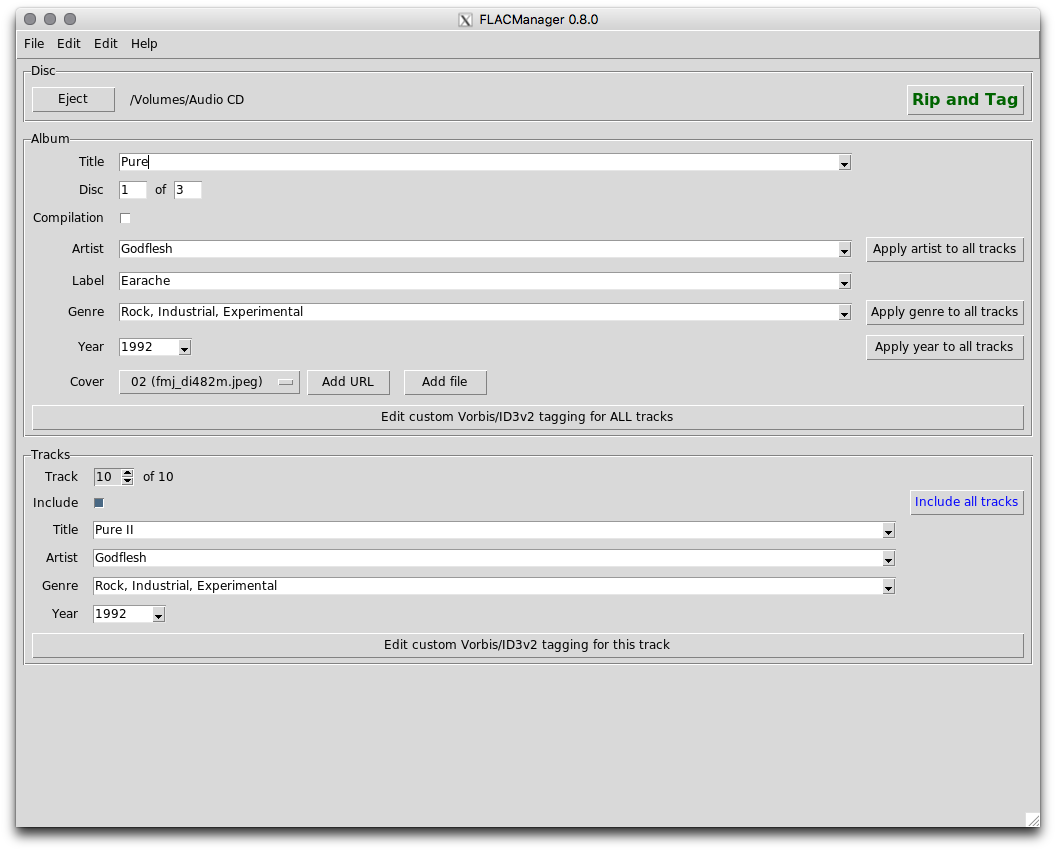
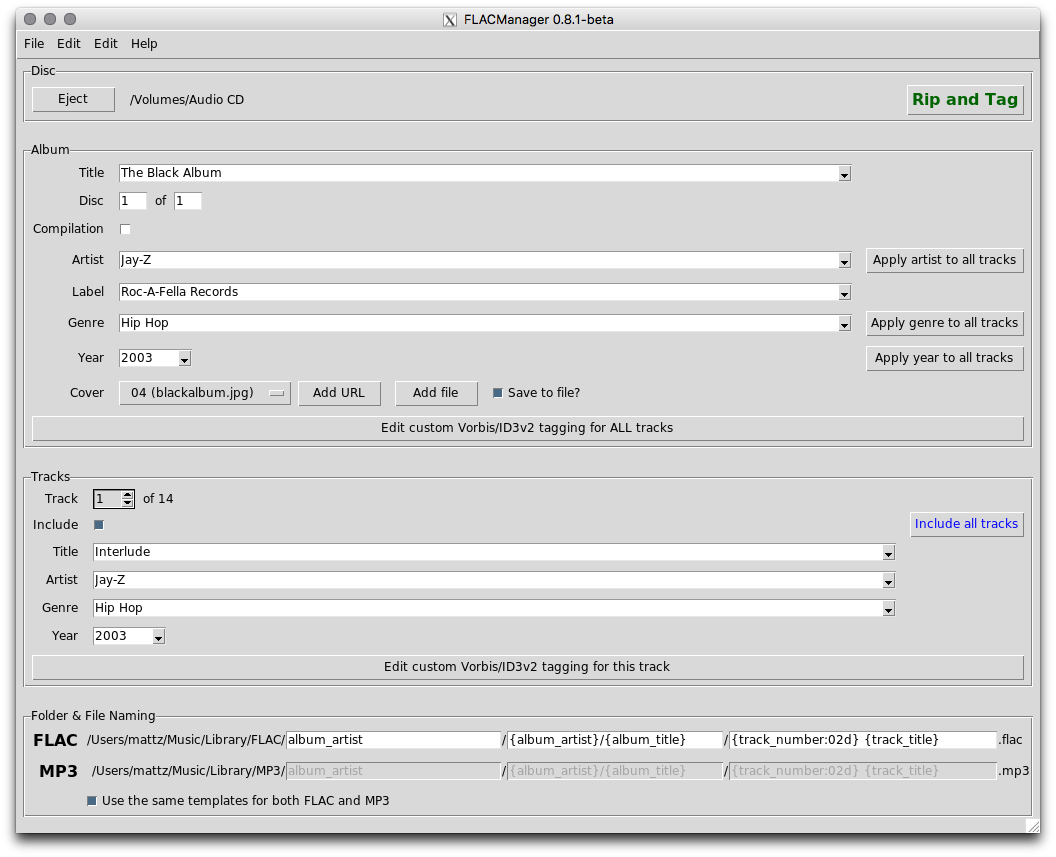
issues/5: folder and file names can now be controlled on a per-album basis; non-default string templates are stored with metadata

Changed region(s): [[0.0312, 0.0611, 0.9688, 0.7944], [0.0312, 0.8249, 1.0, 0.9471], [0.4062, 0.0, 0.5938, 0.0306]]

diff --git a/flacmanager.py b/flacmanager.py
@@ -1451,6 +1451,180 @@ class _FMEditorFrame(Frame):
         self.__init_album_editors()
         self.__init_track_editors()
 
+        # issues/5
+        self.__init_naming_editors()
+        self.__album_disctotal_observer_name = None
+
+    # issues/5
+    def __init_naming_editors(self):
+        """Create the entry widgets for album and track naming fields.
+
+        """
+        naming_editor_frame = LabelFrame(
+            self, name="naming_editor_frame", text="Folder & File Naming")
+
+        self.__row = 0  # relative to naming_editor_frame
+
+        self._create_naming_editor(naming_editor_frame, "FLAC")
+        self._create_naming_editor(naming_editor_frame, "MP3")
+
+        config = get_config()
+        mp3_naming_same_as_flac_var = BooleanVar(
+            name="mp3_naming_same_as_flac_var",
+            value=all((
+                config["FLAC"][option] == config["MP3"][option]
+                for option in [
+                    "album_folder",
+                    "ndisc_album_folder",
+                    "compilation_album_folder",
+                    "ndisc_compilation_album_folder",
+                    "library_subroot_trie_key",
+                    "library_subroot_compilation_trie_key",
+                    "track_filename",
+                    "ndisc_track_filename",
+                    "compilation_track_filename",
+                    "ndisc_compilation_track_filename",
+                    ]
+                )))
+        mp3_naming_same_as_flac_checkbutton = Checkbutton(
+            naming_editor_frame, name="mp3_naming_same_as_flac_checkbutton",
+            text="Use the same templates for both FLAC and MP3",
+            variable=mp3_naming_same_as_flac_var, onvalue=True, offvalue=False,
+            command=self.__update_mp3_naming_editor_state
+        )
+        mp3_naming_same_as_flac_checkbutton.grid(
+            row=self.__row, column=1, columnspan=5, padx=0, pady=_PADY,
+            sticky=W)
+        self.__mp3_naming_same_as_flac_var = mp3_naming_same_as_flac_var
+
+        # collapse the labels and allow the entry fields to expand
+        for i in range(8):
+            naming_editor_frame.grid_columnconfigure(i, weight=0)
+        naming_editor_frame.grid_columnconfigure(2, weight=1) # trie key
+        naming_editor_frame.grid_columnconfigure(4, weight=1) # album folder
+        naming_editor_frame.grid_columnconfigure(6, weight=2) # track filename
+
+        if mp3_naming_same_as_flac_var.get():
+            for editor_name in [
+                    "__mp3_subroot_trie",
+                    "__mp3_album_folder",
+                    "__mp3_track_filename",
+                    ]:
+                self.__metadata_editors[editor_name].config(state=DISABLED)
+
+        naming_editor_frame.pack(anchor=N, pady=11, fill=BOTH)
+
+    def _create_naming_editor(self, parent, encoding_section):
+        """Create entry widgets for the album folder and track filename
+        templates.
+
+        :arg parent: parent object of the widgets
+        :arg str encoding_section: either "FLAC" or "MP3"
+
+        """
+        trie_field = "%s_subroot_trie" % encoding_section.lower()
+        folder_field = "%s_album_folder" % encoding_section.lower()
+        track_field = "%s_track_filename" % encoding_section.lower()
+
+        config_section = get_config()[encoding_section]
+
+        _styled(
+            Label(parent, text=encoding_section), font="-weight bold"
+        ).grid(row=self.__row, column=0, padx=_PADX, pady=_PADY, sticky=E)
+
+        Label(
+            parent, text=config_section["library_root"] + '/'
+        ).grid(row=self.__row, column=1, padx=0, pady=_PADY, sticky=E)
+
+        subroot_trie_var = StringVar(name=trie_field + "_var")
+        subroot_trie = Entry(
+            parent, name=trie_field, textvariable=subroot_trie_var)
+        subroot_trie.var = subroot_trie_var
+        subroot_trie.grid(
+            row=self.__row, column=2, padx=0, pady=_PADY, sticky=W + E)
+
+        Label(parent, text='/').grid(
+            row=self.__row, column=3, padx=0, pady=_PADY, sticky=W)
+
+        album_folder_var = StringVar(name=folder_field + "_var")
+        album_folder = Entry(
+            parent, name=folder_field, textvariable=album_folder_var)
+        album_folder.var = album_folder_var
+        album_folder.grid(
+            row=self.__row, column=4, padx=0, pady=_PADY, sticky=W + E)
+
+        Label(parent, text='/').grid(
+            row=self.__row, column=5, padx=0, pady=_PADY, sticky=W)
+
+        track_filename_var = StringVar(name=track_field + "_var")
+        track_filename = Entry(
+            parent, name=track_field, textvariable=track_filename_var)
+        track_filename.var = track_filename_var
+        track_filename.grid(
+            row=self.__row, column=6, padx=0, pady=_PADY, sticky=W + E)
+
+        Label(parent, text=config_section["track_fileext"]).grid(
+            row=self.__row, column=7, padx=0, pady=_PADY, sticky=W)
+
+        self.__metadata_editors["__%s" % trie_field] = subroot_trie
+        self.__metadata_editors["__%s" % folder_field] = album_folder
+        self.__metadata_editors["__%s" % track_field] = track_filename
+
+        self.__row += 1
+
+    # issues/5
+    def _apply_naming_defaults(self, *args):
+        """Update the folder and file name templates based on the
+        current values for ``album_disctotal`` and
+        ``album_compilation``.
+
+        :arg tuple args:
+           positional arguments (empty except when this method is
+           invoked as the variable trace callback for
+           ``album_disctotal_var``)
+
+        """
+        metadata_editors = self.__metadata_editors
+
+        # yuck... but when changing the value, we get TWO traces:
+        # 1. the variable value changes from the old value to empty (""),
+        #    causing `metadata_editors["album_disctotal"].var.get()` to result
+        #    in TclError since album_disctotal_var is an IntVar
+        # 2. the variable value changes from empty ("") to the new value
+        try:
+            metadata_editors["album_disctotal"].var.get()
+        except TclError:
+            return
+
+        ndisc = (
+            "ndisc_" if metadata_editors["album_disctotal"].var.get() > 1
+            else "")
+        compilation = (
+            "compilation_" if metadata_editors["album_compilation"].var.get()
+            else "")
+        default_key_prefix = ndisc + compilation
+
+        config = get_config()
+        for encoding in ["FLAC", "MP3"]:
+            for field_suffix in [
+                    "subroot_trie", "album_folder", "track_filename"]:
+                default_key = (
+                    "library_subroot_%strie_key" % compilation
+                    if field_suffix == "subroot_trie"
+                    else default_key_prefix + field_suffix)
+                custom_key = "__%s_%s" % (encoding.lower(), field_suffix)
+                metadata_editors[custom_key].var.set(
+                    config[encoding][default_key])
+
+    # issues/5
+    def __update_mp3_naming_editor_state(self):
+        """Enable or disable the MP3 naming entry widgets."""
+        state = \
+            DISABLED if self.__mp3_naming_same_as_flac_var.get() else NORMAL
+        self.__metadata_editors["__mp3_subroot_trie"].config(state=state)
+        self.__metadata_editors["__mp3_album_folder"].config(state=state)
+        self.__metadata_editors["__mp3_track_filename"].config(state=state)
+
     def __init_album_editors(self):
         """Create the entry/selection widgets for album metadata fields.
 
@@ -1477,7 +1651,7 @@ class _FMEditorFrame(Frame):
         album_editor_frame.grid_columnconfigure(1, weight=1)
         album_editor_frame.grid_columnconfigure(2, weight=0)
 
-        album_editor_frame.pack(anchor=N, fill=BOTH)
+        album_editor_frame.pack(anchor=N, pady=11, fill=BOTH)
 
     def __init_track_editors(self):
         """Create the entry/selection widgets for track metadata fields.
@@ -1632,7 +1806,8 @@ class _FMEditorFrame(Frame):
         var = BooleanVar()
         album_compilation = Checkbutton(
             parent, name="album_compilation_checkbutton", variable=var,
-            onvalue=True, offvalue=False)
+            onvalue=True, offvalue=False,
+            command=self._apply_naming_defaults) # issues/5
         album_compilation.var = var
         album_compilation.grid(
             row=self.__row, column=1, columnspan=2, padx=_PADX, pady=_PADY,
@@ -2040,6 +2215,21 @@ class _FMEditorFrame(Frame):
                 self.__add_album_cover_option(filepath, showinfo=False)
             album_cover_editor.config(state=NORMAL)
 
+        # issues/5
+        self._apply_naming_defaults()
+        for encoding in ["flac", "mp3"]:
+            for field_suffix in [
+                    "subroot_trie", "album_folder", "track_filename"]:
+                custom_key = "__%s_%s" % (encoding, field_suffix)
+                custom_spec = aggregated_metadata.get(custom_key)
+                if custom_spec is not None:
+                    metadata_editors[custom_key].var.set(custom_spec)
+
+        # issues/5
+        self.__album_disctotal_observer_name = \
+            metadata_editors["album_disctotal"].var.trace(
+                'w', self._apply_naming_defaults)
+
         self.__aggregated_metadata = deepcopy(aggregated_metadata)
 
         self._initialize_track_vars()
@@ -2124,6 +2314,26 @@ class _FMEditorFrame(Frame):
         # expected
         aggregated_metadata = self.__aggregated_metadata
         snapshot["__custom"] = aggregated_metadata["__custom"].copy()
+
+        # issues/5
+        snapshot["__flac_subroot_trie"] = \
+            metadata_editors["__flac_subroot_trie"].var.get()
+        snapshot["__flac_album_folder"] = \
+            metadata_editors["__flac_album_folder"].var.get()
+        snapshot["__flac_track_filename"] = \
+            metadata_editors["__flac_track_filename"].var.get()
+        if self.__mp3_naming_same_as_flac_var.get():
+            snapshot["__mp3_subroot_trie"] = snapshot["__flac_subroot_trie"]
+            snapshot["__mp3_album_folder"] = snapshot["__flac_album_folder"]
+            snapshot["__mp3_track_filename"] = \
+                snapshot["__flac_track_filename"]
+        else:
+            snapshot["__mp3_subroot_trie"] = \
+                metadata_editors["__mp3_subroot_trie"].var.get()
+            snapshot["__mp3_album_folder"] = \
+                metadata_editors["__mp3_album_folder"].var.get()
+            snapshot["__mp3_track_filename"] = \
+                metadata_editors["__mp3_track_filename"].var.get()
 
         snapshot["__tracks"] = [None]
         for t in range(1, len(track_vars)):
@@ -2312,6 +2522,11 @@ class _FMEditorFrame(Frame):
                 textvariable=metadata_editors[track_field_name].var)
 
         metadata_editors["album_discnumber"].var.set(0)
+        # issues/5
+        if self.__album_disctotal_observer_name is not None:
+            metadata_editors["album_disctotal"].var.trace_vdelete(
+                'w', self.__album_disctotal_observer_name)
+            self.__album_disctotal_observer_name = None
         metadata_editors["album_disctotal"].var.set(0)
 
         metadata_editors["album_compilation"].var.set(False)
@@ -2345,6 +2560,10 @@ class _FMEditorFrame(Frame):
         track_include_editor.var.set(True)
         track_include_editor.apply_button.config(text="Include all tracks")
         _styled(track_include_editor.apply_button, foreground="Blue")
+
+        # issues/5
+        self._apply_naming_defaults()
+        self.__mp3_naming_same_as_flac_var.set(True)
 
         # finally clear all cached data
         self.__aggregated_metadata = None
@@ -2781,11 +3000,8 @@ def _generate_dirname(section, library_root, metadata):
 
     config = get_config()
 
-    ndisc = "ndisc_" if metadata["album_disctotal"] > 1 else ""
-    is_compilation = metadata["album_compilation"]
-    folder_format_spec = (
-        config[section][ndisc + "album_folder"] if not is_compilation
-        else config[section][ndisc + "compilation_album_folder"])
+    # issues/5
+    folder_format_spec = metadata["__%s_album_folder" % section.lower()]
     _log.debug("using template %r", folder_format_spec)
 
     folder_names = [
@@ -2826,11 +3042,8 @@ def _generate_basename(section, metadata):
 
     config = get_config()
 
-    ndisc = "ndisc_" if metadata["album_disctotal"] > 1 else ""
-    is_compilation = metadata["album_compilation"]
-    track_format_spec = (
-        config[section][ndisc + "track_filename"] if not is_compilation
-        else config[section][ndisc + "compilation_track_filename"])
+    # issues/5
+    track_format_spec = metadata["__%s_track_filename" % section.lower()]
     _log.debug("using template %r", track_format_spec)
 
     basename = track_format_spec.format(**metadata)
@@ -2902,10 +3115,8 @@ def _subroot_trie(section, metadata):
 
     config = get_config()
 
-    key = (
-        config[section]["library_subroot_trie_key"]
-        if not metadata["album_compilation"] else
-        config[section]["library_subroot_compilation_trie_key"])
+    # issues/5
+    key = metadata["__%s_subroot_trie" % section.lower()]
     level = config[section].getint("library_subroot_trie_level")
 
     # to skip building a directory trie structure, the key can be left empty or
@@ -5781,6 +5992,26 @@ class MetadataPersistence(MetadataCollector):
 
         self._xform_custom_keys(repr, disc_metadata)
 
+        # issues/5
+        config = get_config()
+        ndisc = "ndisc_" if disc_metadata["album_disctotal"] > 1 else ""
+        compilation = \
+            "compilation_" if disc_metadata["album_compilation"] else ""
+        default_key_prefix = ndisc + compilation
+        # only persist the specs if they differ from the defaults; that way,
+        # changing the defaults will take effect for any reinserted disc
+        for encoding in ["FLAC", "MP3"]:
+            for field_suffix in [
+                    "subroot_trie", "album_folder", "track_filename"]:
+                default_key = (
+                    "library_subroot_%strie_key" % compilation
+                    if field_suffix == "subroot_trie"
+                    else default_key_prefix + field_suffix)
+                default_spec = config[encoding][default_key]
+                custom_key = "__%s_%s" % (encoding.lower(), field_suffix)
+                if disc_metadata[custom_key] == default_spec:
+                    del disc_metadata[custom_key]
+
         for track_metadata in disc_metadata["__tracks"][1:]:
             self._xform_custom_keys(repr, track_metadata)
 
@@ -5967,9 +6198,21 @@ class MetadataAggregator(MetadataCollector, threading.Thread):
             self.metadata["album_disctotal"] = \
                 self.persistence.metadata["album_disctotal"]
 
-            # regular collectors do not store the "album_compilation" flag
+            # regular collectors do not track the following fields
             self.metadata["album_compilation"] = \
                 self.persistence.metadata["album_compilation"]
+            # issues/5
+            for naming_field in [
+                    "__flac_subroot_trie",
+                    "__flac_album_folder",
+                    "__flac_track_filename",
+                    "__mp3_subroot_trie",
+                    "__mp3_album_folder",
+                    "__mp3_track_filename",
+                    ]:
+                if naming_field in self.persistence.metadata:
+                    self.metadata[naming_field] = \
+                        self.persistence.metadata[naming_field]
 
             t = 1
             for track_metadata in self.persistence.metadata["__tracks"][t:]:
